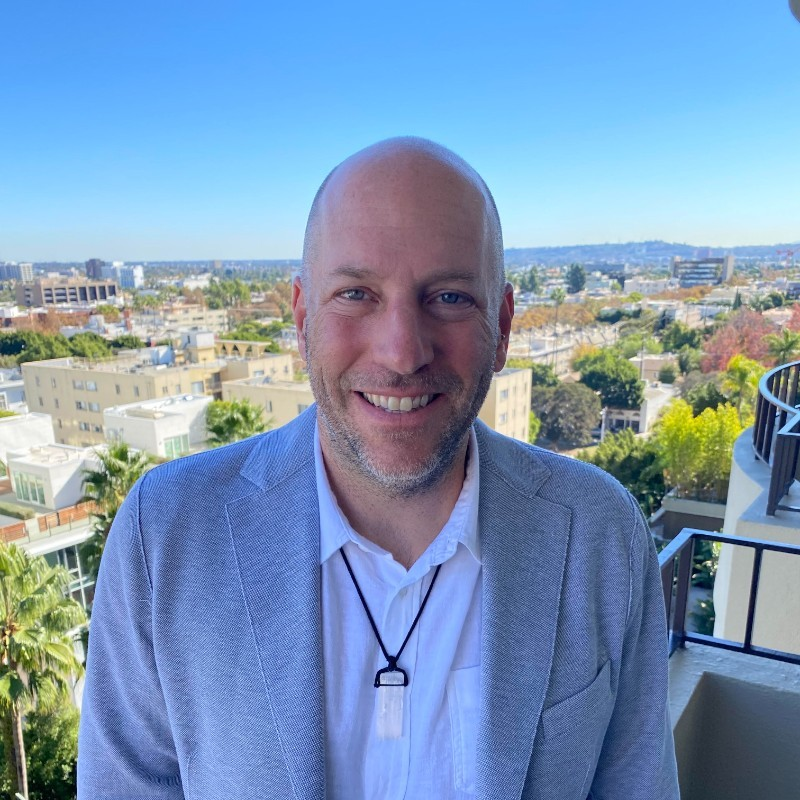
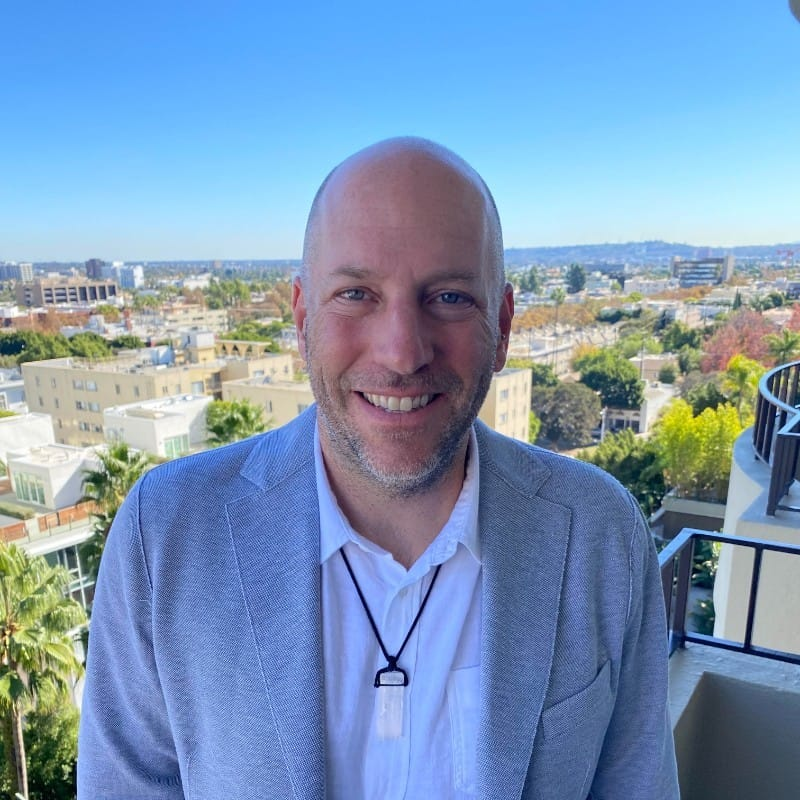
Updates to GB (#1915)
* Updates to GB

* optimize images

---------

diff --git a/governing-board.html b/governing-board.html
@@ -17,7 +17,32 @@ permalink: /governing-board
 
 <div class="container-fluid light-background-section">
   <div class="container pt-3 pb-5">
-
+    <div class="row board-member">
+      <div class="col-md-3">
+        <img src="/assets/images/governing-board/andrew-wafaa.jpg" alt="Andrew Wafaa">
+      </div>
+      <div class="col-md-9">
+        <h3>Andrew Wafaa, Arm</h3>
+        <p>Andrew is part of Arm’s Strategy & Ecosystem and Developer platforms leadership team, heading up  Arm’s Open Source Office and is responsible for Arm’s relationship and engagements with software communities. With over 25 years of deep engagement with open source communities under a variety of employers, through the years he has held various positions with a variety of projects and foundations. Currently he is the Chair of the Yocto Project and sits on the Board of the PyTorch Foundation, FreeBSD Foundation, Xen Project and on the TSC/TAC/SC of PyTorch, Zephyr, UXLFoundation. He has previously served on the Board of the Rust Foundation, OpenUK and openSUSE Project. To support his work with the various communities, Andrew is often at most of the open source events that are held globally.<br />
+        <a href="https://www.linkedin.com/in/andrewwafaa/" target="_blank" title="Andrew Wafaa on LinkedIn">
+          <svg xmlns="http://www.w3.org/2000/svg" viewbox="-10.23 -10.23 531.96 531.96" aria-label="LinkedIn"><rect width="512" height="512" rx="0" fill="currentColor"/><circle fill="#fff" cx="142" cy="138" r="37"/><path stroke="#fff" stroke-width="66" d="M244 194v198M142 194v198"/><path fill="#fff" d="M276 282c0-20 13-40 36-40 24 0 33 18 33 45v105h66V279c0-61-32-89-76-89-34 0-51 19-59 32"/></svg>
+        </a>
+      </p>
+      </div>
+    </div>
+    <div class="row board-member">
+      <div class="col-md-3">
+        <img src="/assets/images/governing-board/ankit-patel.jpg" alt="Ankit Patel">
+      </div>
+      <div class="col-md-9">
+        <h3>Ankit Patel, NVIDIA</h3>
+        <p>Ankit Patel is a senior director at NVIDIA, leading developer engagement for SDKs, APIs, and tools. He joined NVIDIA in 2011, transitioning from GPU product manager to software product management in virtualization, ray tracing, and AI. Previously, he managed video editing and live production products at Matrox Video and Blackmagic Design. Ankit holds a bachelor's degree in computer science from Concordia University and an MBA from Cornell University.<br />
+        <a href="https://www.linkedin.com/in/ankitjpatel/" target="_blank" title="Ankit Patel on LinkedIn">
+          <svg xmlns="http://www.w3.org/2000/svg" viewbox="-10.23 -10.23 531.96 531.96" aria-label="LinkedIn"><rect width="512" height="512" rx="0" fill="currentColor"/><circle fill="#fff" cx="142" cy="138" r="37"/><path stroke="#fff" stroke-width="66" d="M244 194v198M142 194v198"/><path fill="#fff" d="M276 282c0-20 13-40 36-40 24 0 33 18 33 45v105h66V279c0-61-32-89-76-89-34 0-51 19-59 32"/></svg>
+        </a>
+      </p>
+      </div>
+    </div>
     <div class="row board-member">
       <div class="col-md-3">
         <img src="/assets/images/governing-board/Brian-Granger.jpg" alt="Brian Granger">
@@ -31,7 +56,68 @@ permalink: /governing-board
       </p>
       </div>
     </div>
-
+    <div class="row board-member">
+      <div class="col-md-3">
+        <img src="/assets/images/governing-board/Fred-Li.jpg" alt="Fred Li">
+      </div>
+      <div class="col-md-9">
+        <h3>Fred Li, Huawei</h3>
+        <p>Fred Li, General Manager of Open Source Development at Huawei's Computing Product Line, brings over 20 years of technology and open-source experience since 2015. Serving as the platinum director of OpenStack Foundation and representing Huawei in PyTorch Foundation and LF AI & Data, he's a pivotal figure in open source. Fred initiated the openEuler community in 2019, nurturing multiple open-source communities with thousands of engineers and millions of users. With expertise in IT product development, project management, and open-source strategy, Fred is committed to global open-source advocacy.<br />
+      </p>
+      </div>
+    </div>
+    <div class="row board-member">
+      <div class="col-md-3">
+        <img src="/assets/images/governing-board/joe-spisak.jpg" alt="Joe Spisak">
+      </div>
+      <div class="col-md-9">
+        <h3>Joe Spisak, Meta</h3>
+        <p>Joseph Spisak is the Director of Product Management for AI at Meta. A veteran of the AI space with over 10 years experience, Joe led product teams at Meta/Facebook, Google and Amazon where he focused on open source AI, open science and building developer tools such as PyTorch to help the community scale up AI in an open and collaborative way. As the leader of product for PyTorch, he and the team built an amazing platform and community that made PyTorch the leading open source AI development framework in the industry and took it to the Linux Foundation. Joe is also an angel advisor to companies like Anthropic, Lastmile.AI (former FB), EvolutionaryScale (former FB), Udacity, Lightning.AI, and others.<br />
+        <a href="https://www.linkedin.com/in/jspisak/" target="_blank" title="Joe Spisak on LinkedIn">
+          <svg xmlns="http://www.w3.org/2000/svg" viewbox="-10.23 -10.23 531.96 531.96" aria-label="LinkedIn"><rect width="512" height="512" rx="0" fill="currentColor"/><circle fill="#fff" cx="142" cy="138" r="37"/><path stroke="#fff" stroke-width="66" d="M244 194v198M142 194v198"/><path fill="#fff" d="M276 282c0-20 13-40 36-40 24 0 33 18 33 45v105h66V279c0-61-32-89-76-89-34 0-51 19-59 32"/></svg>
+        </a>
+      </p>
+      </div>
+    </div>
+    <div class="row board-member">
+      <div class="col-md-3">
+        <img src="/assets/images/governing-board/kismet-singh.jpg" alt="Kismat Singh">
+      </div>
+      <div class="col-md-9">
+        <h3>Kismat Singh, Intel</h3>
+        <p>Kismat works as VP S/W of AI Frameworks team at Intel. The team focuses on frameworks like PyTorch, TF and other inference/serving engines. Prior to Intel Kismat worked at Nvidia for 8 focusing on AI S/W frameworks/libs like TensorRT, Deep learning compiler etc.<br />
+        <a href="https://www.linkedin.com/in/kismat-singh-4a94511/" target="_blank" title="Kismat Singh on LinkedIn">
+          <svg xmlns="http://www.w3.org/2000/svg" viewbox="-10.23 -10.23 531.96 531.96" aria-label="LinkedIn"><rect width="512" height="512" rx="0" fill="currentColor"/><circle fill="#fff" cx="142" cy="138" r="37"/><path stroke="#fff" stroke-width="66" d="M244 194v198M142 194v198"/><path fill="#fff" d="M276 282c0-20 13-40 36-40 24 0 33 18 33 45v105h66V279c0-61-32-89-76-89-34 0-51 19-59 32"/></svg>
+        </a>
+      </p>
+      </div>
+    </div>
+    <div class="row board-member">
+      <div class="col-md-3">
+        <img src="/assets/images/governing-board/Luca-Antiga.jpg" alt="Luca Antiga">
+      </div>
+      <div class="col-md-9">
+        <h3>Luca Antiga, Lightning AI</h3>
+        <p>Luca Antiga is the CTO at Lightning AI. He is an early contributor to PyTorch core and co-authored “Deep Learning with PyTorch” (published by Manning). He started his journey as a researcher in Bioengineering, and later co-founded Orobix, a company focused on building and deploying AI in production settings.<br />
+        <a href="https://www.linkedin.com/in/lantiga/" target="_blank" title="Luca Antiga on LinkedIn">
+          <svg xmlns="http://www.w3.org/2000/svg" viewbox="-10.23 -10.23 531.96 531.96" aria-label="LinkedIn"><rect width="512" height="512" rx="0" fill="currentColor"/><circle fill="#fff" cx="142" cy="138" r="37"/><path stroke="#fff" stroke-width="66" d="M244 194v198M142 194v198"/><path fill="#fff" d="M276 282c0-20 13-40 36-40 24 0 33 18 33 45v105h66V279c0-61-32-89-76-89-34 0-51 19-59 32"/></svg>
+        </a>
+      </p>
+      </div>
+    </div>
+    <div class="row board-member">
+      <div class="col-md-3">
+        <img src="/assets/images/governing-board/Lysandre-Debut.jpg" alt="Lysandre Debut">
+      </div>
+      <div class="col-md-9">
+        <h3>Lysandre Debut, Hugging Face</h3>
+        <p>Lysandre is the Head of Open Source at Hugging Face. Lysandre has been at Hugging Face since the company’s pivot to open-source, and was the first engineer to focus entirely on the open-source mission. Now leading the open-source part of the organization, Lysandre remains technically involved by being a core maintainer of the Transformers library.<br />
+        <a href="https://www.linkedin.com/in/lysandredebut/" target="_blank" title="Lysandre Debut on LinkedIn">
+          <svg xmlns="http://www.w3.org/2000/svg" viewbox="-10.23 -10.23 531.96 531.96" aria-label="LinkedIn"><rect width="512" height="512" rx="0" fill="currentColor"/><circle fill="#fff" cx="142" cy="138" r="37"/><path stroke="#fff" stroke-width="66" d="M244 194v198M142 194v198"/><path fill="#fff" d="M276 282c0-20 13-40 36-40 24 0 33 18 33 45v105h66V279c0-61-32-89-76-89-34 0-51 19-59 32"/></svg>
+        </a>
+      </p>
+      </div>
+    </div>
     <div class="row board-member">
       <div class="col-md-3">
         <img src="/assets/images/governing-board/Niles-Burbank.jpg" alt="Niles Burbank">
@@ -47,68 +133,6 @@ permalink: /governing-board
     </div>
       <div class="row board-member">
         <div class="col-md-3">
-          <img src="/assets/images/governing-board/alex-spinelli.jpeg" alt="Alex Spinelli">
-        </div>
-        <div class="col-md-9">
-          <h3>Alex Spinelli, Arm</h3>
-          <p>Alex is the Senior Vice President of AI and Developer Technologies at Arm, where he is responsible for helping developers build their best AI experiences and software applications on the most ubiquitous computing platform on the planet, from Cloud to Edge. Prior to Arm, Alex was VP of Product Management for Machine Learning at Google. At Google he was responsible for TensorFlow and the technologies and infrastructures that power Google’s machine learning and AI services. Alex previously led product and engineering for LivePerson, FastCompany’s #1 ranked AI company for 2022, where he built technology to enable enterprises to build their own conversational assistants. He held positions at Amazon, leading the core software platforms for Alexa, and product and engineering for Amazon’s Search. At Thomson Reuters, Alex oversaw product and technology for news and media, including ultra-low latency AI-driven news categorization and synthetic news for financial professionals. Alex started his career as a software engineer in New York City and he has an MBA from Duke University.<br />
-          <a href="https://www.linkedin.com/in/aspinelli/" target="_blank" title="Alex Spinelli on LinkedIn">
-            <svg xmlns="http://www.w3.org/2000/svg" viewbox="-10.23 -10.23 531.96 531.96" aria-label="LinkedIn"><rect width="512" height="512" rx="0" fill="currentColor"/><circle fill="#fff" cx="142" cy="138" r="37"/><path stroke="#fff" stroke-width="66" d="M244 194v198M142 194v198"/><path fill="#fff" d="M276 282c0-20 13-40 36-40 24 0 33 18 33 45v105h66V279c0-61-32-89-76-89-34 0-51 19-59 32"/></svg>
-          </a>
-        </p>
-        </div>
-      </div>
-      <div class="row board-member">
-        <div class="col-md-3">
-          <img src="/assets/images/governing-board/Dwarak-Rajagopal.jpg" alt="Dwarak Rajagopal">
-        </div>
-        <div class="col-md-9">
-          <h3>Dwarak Rajagopal, Google</h3>
-          <p>Dwarak Rajagopal, a seasoned technology leader, boasts over 20 years of experience with pivotal roles at Google, Meta/Facebook, Uber, Apple, and AMD. Currently a Sr. Engineering Director at Google, he leads AI Frameworks and OnDevice ML teams, driving innovations in AI and LLMs on server/mobile for efficiency. At Meta/Facebook, he led the PyTorch Core Frameworks team, advancing AI research to production. His contributions span self-driving software at Uber, graphics technology at Apple, and compiler development at AMD. Dwarak's dedication to democratizing AI, open-source software, and ethical practices defines his commitment to shaping the future of technology.<br />
-          <a href="https://www.linkedin.com/in/dwarakrajagopal/" target="_blank" title="Dwarak Rajagopal on LinkedIn">
-            <svg xmlns="http://www.w3.org/2000/svg" viewbox="-10.23 -10.23 531.96 531.96" aria-label="LinkedIn"><rect width="512" height="512" rx="0" fill="currentColor"/><circle fill="#fff" cx="142" cy="138" r="37"/><path stroke="#fff" stroke-width="66" d="M244 194v198M142 194v198"/><path fill="#fff" d="M276 282c0-20 13-40 36-40 24 0 33 18 33 45v105h66V279c0-61-32-89-76-89-34 0-51 19-59 32"/></svg>
-          </a>
-        </p>
-        </div>
-      </div>
-      <div class="row board-member">
-        <div class="col-md-3">
-          <img src="/assets/images/governing-board/Fred-Li.jpg" alt="Fred Li">
-        </div>
-        <div class="col-md-9">
-          <h3>Fred Li, Huawei</h3>
-          <p>Fred Li, General Manager of Open Source Development at Huawei's Computing Product Line, brings over 20 years of technology and open-source experience since 2015. Serving as the platinum director of OpenStack Foundation and representing Huawei in PyTorch Foundation and LF AI & Data, he's a pivotal figure in open source. Fred initiated the openEuler community in 2019, nurturing multiple open-source communities with thousands of engineers and millions of users. With expertise in IT product development, project management, and open-source strategy, Fred is committed to global open-source advocacy.<br />
-        </p>
-        </div>
-      </div>
-      <div class="row board-member">
-        <div class="col-md-3">
-          <img src="/assets/images/governing-board/Lysandre-Debut.jpg" alt="Lysandre Debut">
-        </div>
-        <div class="col-md-9">
-          <h3>Lysandre Debut, Hugging Face</h3>
-          <p>Lysandre is the Head of Open Source at Hugging Face. Lysandre has been at Hugging Face since the company’s pivot to open-source, and was the first engineer to focus entirely on the open-source mission. Now leading the open-source part of the organization, Lysandre remains technically involved by being a core maintainer of the Transformers library.<br />
-          <a href="https://www.linkedin.com/in/lysandredebut/" target="_blank" title="Lysandre Debut on LinkedIn">
-            <svg xmlns="http://www.w3.org/2000/svg" viewbox="-10.23 -10.23 531.96 531.96" aria-label="LinkedIn"><rect width="512" height="512" rx="0" fill="currentColor"/><circle fill="#fff" cx="142" cy="138" r="37"/><path stroke="#fff" stroke-width="66" d="M244 194v198M142 194v198"/><path fill="#fff" d="M276 282c0-20 13-40 36-40 24 0 33 18 33 45v105h66V279c0-61-32-89-76-89-34 0-51 19-59 32"/></svg>
-          </a>
-        </p>
-        </div>
-      </div>
-      <div class="row board-member">
-        <div class="col-md-3">
-          <img src="/assets/images/governing-board/kismet-singh.jpg" alt="Kismat Singh">
-        </div>
-        <div class="col-md-9">
-          <h3>Kismat Singh, Intel</h3>
-          <p>Kismat works as VP S/W of AI Frameworks team at Intel. The team focuses on frameworks like PyTorch, TF and other inference/serving engines. Prior to Intel Kismat worked at Nvidia for 8 focusing on AI S/W frameworks/libs like TensorRT, Deep learning compiler etc.<br />
-          <a href="https://www.linkedin.com/in/kismat-singh-4a94511/" target="_blank" title="Kismat Singh on LinkedIn">
-            <svg xmlns="http://www.w3.org/2000/svg" viewbox="-10.23 -10.23 531.96 531.96" aria-label="LinkedIn"><rect width="512" height="512" rx="0" fill="currentColor"/><circle fill="#fff" cx="142" cy="138" r="37"/><path stroke="#fff" stroke-width="66" d="M244 194v198M142 194v198"/><path fill="#fff" d="M276 282c0-20 13-40 36-40 24 0 33 18 33 45v105h66V279c0-61-32-89-76-89-34 0-51 19-59 32"/></svg>
-          </a>
-        </p>
-        </div>
-      </div>
-      <div class="row board-member">
-        <div class="col-md-3">
           <img src="/assets/images/governing-board/Raghu-Ganti.jpg" alt="Raghu Ganti">
         </div>
         <div class="col-md-9">
@@ -122,31 +146,17 @@ permalink: /governing-board
       </div>
       <div class="row board-member">
         <div class="col-md-3">
-          <img src="/assets/images/governing-board/Luca-Antiga.jpg" alt="Luca Antiga">
+          <img src="/assets/images/governing-board/shauheen-zahirazami.jpg" alt="Shauheen Zahirazami">
         </div>
         <div class="col-md-9">
-          <h3>Luca Antiga, Lightning AI</h3>
-          <p>Luca Antiga is the CTO at Lightning AI. He is an early contributor to PyTorch core and co-authored “Deep Learning with PyTorch” (published by Manning). He started his journey as a researcher in Bioengineering, and later co-founded Orobix, a company focused on building and deploying AI in production settings.<br />
-          <a href="https://www.linkedin.com/in/lantiga/" target="_blank" title="Luca Antiga on LinkedIn">
+          <h3>Shauheen Zahirazami, Google</h3>
+          <p>Shauheen Zahirazami has a PhD in control engineering and BSc in applied mathematics. He is currently leading Cloud TPU Machine Learning teams at Google who are responsible for ML Frameworks and 3P ecosystem including the PyTorch teams that develop PyTorch/XLA.<br />
+          <a href="https://www.linkedin.com/in/shauheen/" target="_blank" title="Shauheen Zahirazami on LinkedIn">
             <svg xmlns="http://www.w3.org/2000/svg" viewbox="-10.23 -10.23 531.96 531.96" aria-label="LinkedIn"><rect width="512" height="512" rx="0" fill="currentColor"/><circle fill="#fff" cx="142" cy="138" r="37"/><path stroke="#fff" stroke-width="66" d="M244 194v198M142 194v198"/><path fill="#fff" d="M276 282c0-20 13-40 36-40 24 0 33 18 33 45v105h66V279c0-61-32-89-76-89-34 0-51 19-59 32"/></svg>
           </a>
         </p>
         </div>
       </div>
-      <div class="row board-member">
-        <div class="col-md-3">
-          <img src="/assets/images/governing-board/damien-sereni.jpeg" alt="Damien Sereni">
-        </div>
-        <div class="col-md-9">
-          <h3>Damien Sereni, Meta</h3>
-          <p>Supporting the PyTorch team within Meta. In the past Damien has worked on compilers, static analysis, programming languages, virtual machines and developer tools. Damien is passionate about developer productivity and building strong organizations to support developers.<br />
-          <a href="https://www.linkedin.com/in/sereni/" target="_blank" title="Damien Sereni on LinkedIn">
-            <svg xmlns="http://www.w3.org/2000/svg" viewbox="-10.23 -10.23 531.96 531.96" aria-label="LinkedIn"><rect width="512" height="512" rx="0" fill="currentColor"/><circle fill="#fff" cx="142" cy="138" r="37"/><path stroke="#fff" stroke-width="66" d="M244 194v198M142 194v198"/><path fill="#fff" d="M276 282c0-20 13-40 36-40 24 0 33 18 33 45v105h66V279c0-61-32-89-76-89-34 0-51 19-59 32"/></svg>
-          </a>
-        </p>
-        </div>
-      </div>
-
       <div class="row board-member">
         <div class="col-md-3">
           <img src="/assets/images/governing-board/Steve-Wan.jpg" alt="Steve Wan">
@@ -160,26 +170,6 @@ permalink: /governing-board
           </p>
         </div>
       </div>
-
-    <div class="row board-member">
-      <div class="col-md-3">
-        <img src="/assets/images/governing-board/ankit-patel.jpg" alt="Ankit Patel">
-      </div>
-      <div class="col-md-9">
-        <h3>Ankit Patel, NVIDIA</h3>
-        <p>Ankit Patel is a senior director at NVIDIA, leading developer engagement for SDKs, APIs, and tools. He joined NVIDIA in 2011, transitioning from GPU product manager to software product management in virtualization, ray tracing, and AI. Previously, he managed video editing and live production products at Matrox Video and Blackmagic Design. Ankit holds a bachelor's degree in computer science from Concordia University and an MBA from Cornell University.<br />
-        <a href="https://www.linkedin.com/in/ankitjpatel/" target="_blank" title="Ankit Patel on LinkedIn">
-          <svg xmlns="http://www.w3.org/2000/svg" viewbox="-10.23 -10.23 531.96 531.96" aria-label="LinkedIn"><rect width="512" height="512" rx="0" fill="currentColor"/><circle fill="#fff" cx="142" cy="138" r="37"/><path stroke="#fff" stroke-width="66" d="M244 194v198M142 194v198"/><path fill="#fff" d="M276 282c0-20 13-40 36-40 24 0 33 18 33 45v105h66V279c0-61-32-89-76-89-34 0-51 19-59 32"/></svg>
-        </a>
-      </p>
-      </div>
-    </div>
-
-
-
-
-
-
 
   </div>
 </div>
